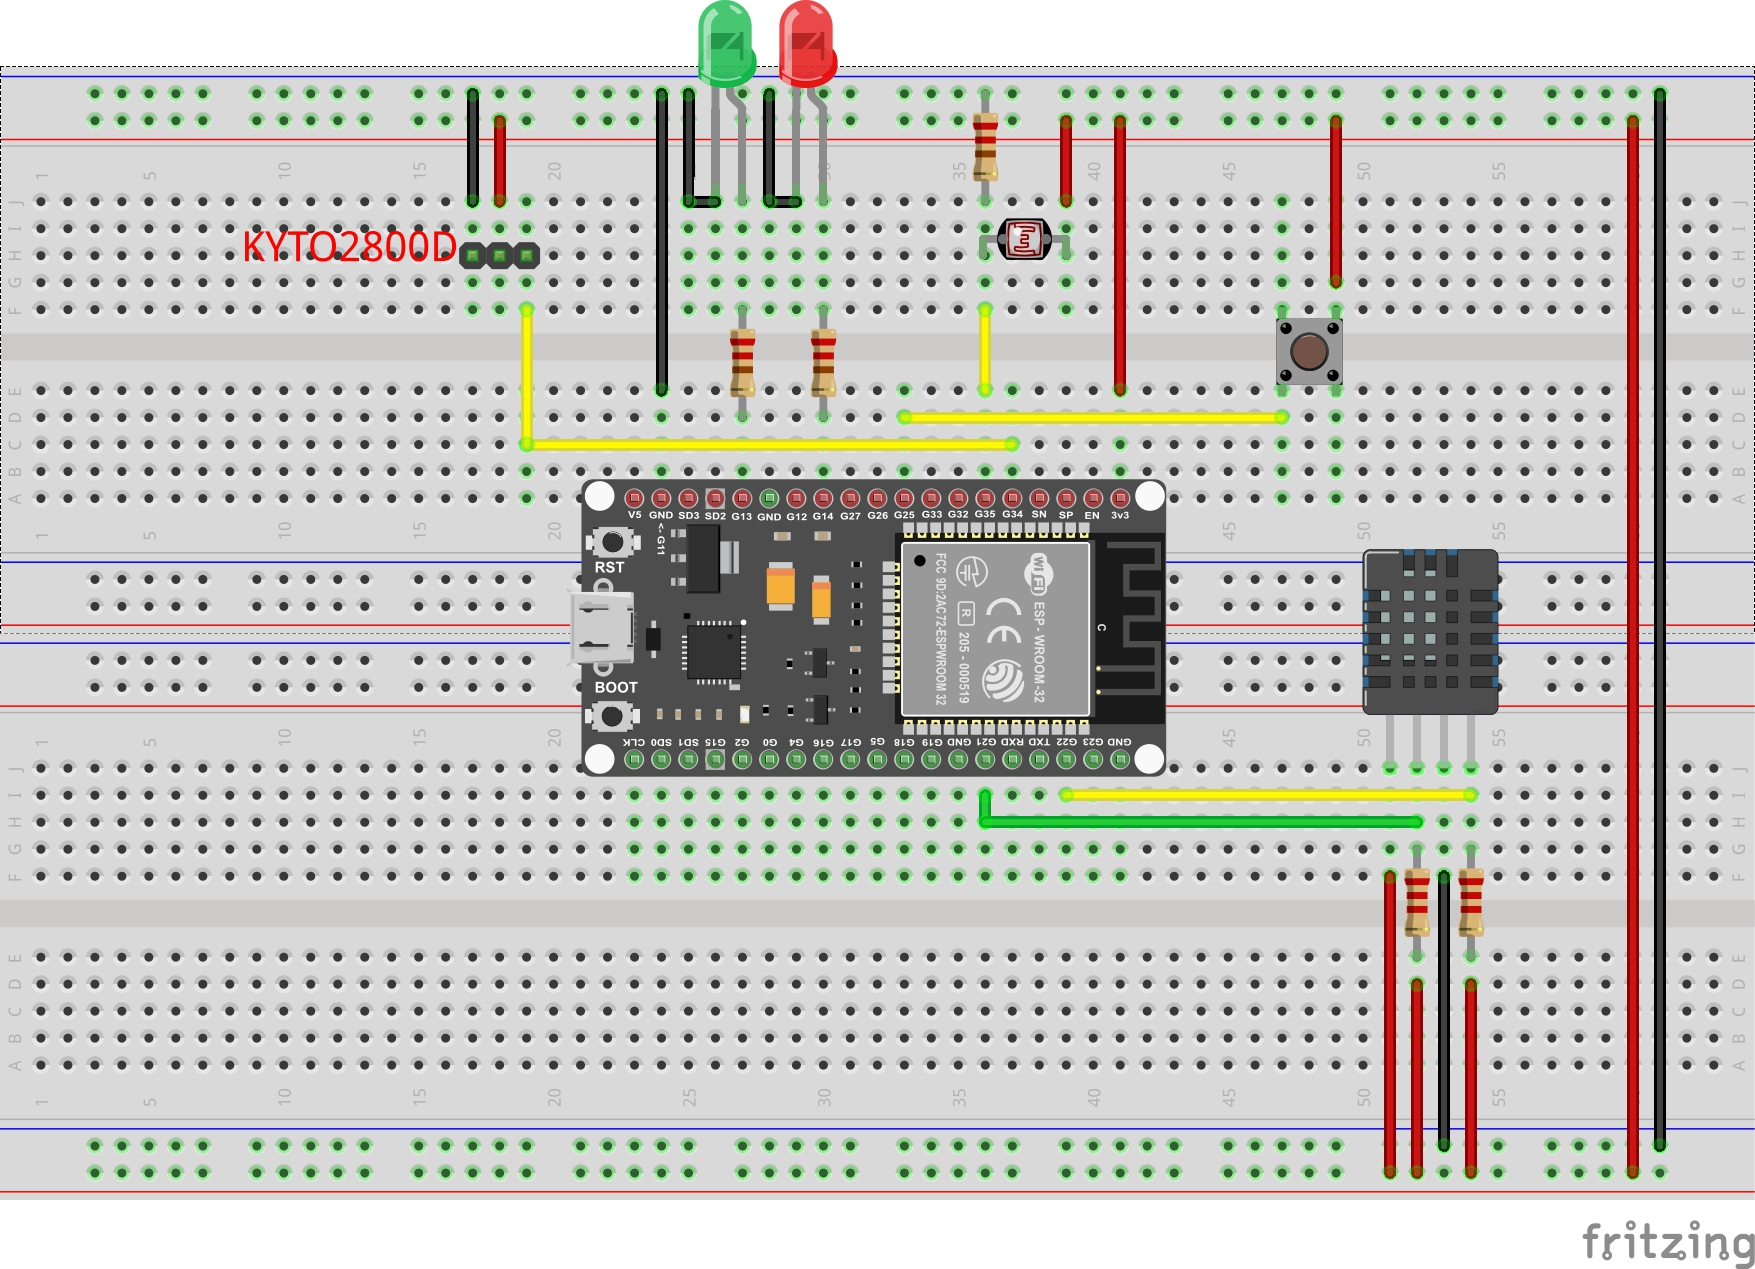
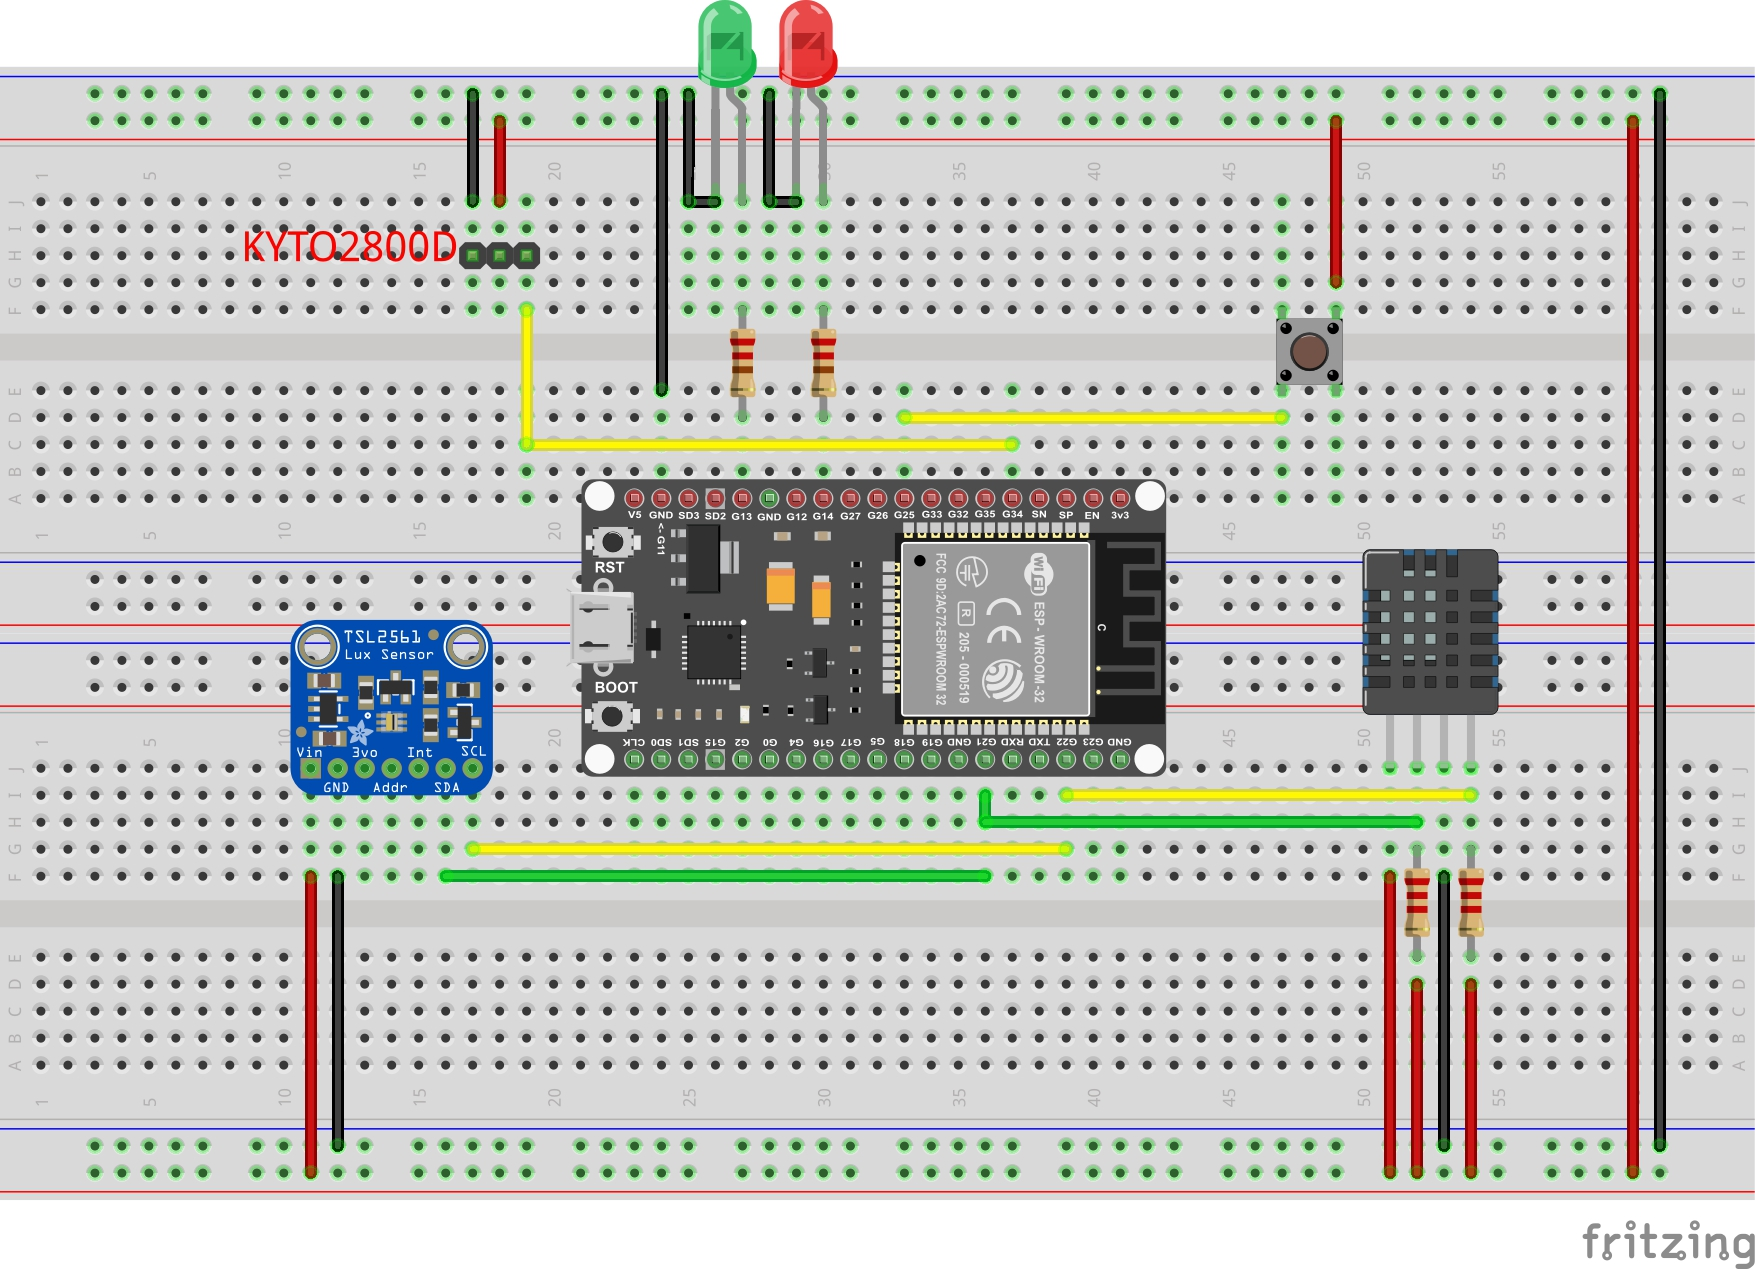
Update fritzing and Readme

Changed region(s): [[0.1538, 0.461, 0.6154, 0.922], [0.5538, 0.0615, 0.6462, 0.3073], [0.6154, 0.3381, 0.6462, 0.3688]]

diff --git a/README.md b/README.md
@@ -2,13 +2,13 @@
 
 ## API
 
-| URI        | Data                                                                                                     |
-| ---------- | -------------------------------------------------------------------------------------------------------- |
-| /temp      | Temperature mesured by the AM2320 in °C                                                                  |
-| /hum       | Relative humidity mesured by the AM2320 in %                                                             |
-| /photo     | Light intensity mesured by the LDR in lux (not very accurate)                                            |
-| /heartrate | Heart rate mesured by the KYTO2800D in bpm                                                               |
-| /metrics   | All data in [Prometheus exposition format](https://prometheus.io/docs/instrumenting/exposition_formats/) |
+| URI          | Data                                                                                                     |
+| ------------ | -------------------------------------------------------------------------------------------------------- |
+| /temp        | Temperature mesured by the AM2320 in °C                                                                  |
+| /hum         | Relative humidity mesured by the AM2320 in %                                                             |
+| /illuminance | Light intensity mesured by the TSL2561 in lux                                                            |
+| /heartrate   | Heart rate mesured by the KYTO2800D in bpm                                                               |
+| /metrics     | All data in [Prometheus exposition format](https://prometheus.io/docs/instrumenting/exposition_formats/) |
 
 ## Config
 
@@ -33,16 +33,10 @@ You can import the Grafana dashboard from the `grafana-dashboard.json` file.
 - [KYTO2800D](https://aliexpress.com/item/1005005244410482.html)
 - 5.3kHz non-coded heart rate transmitter (like the [KYTO2800C](https://www.aliexpress.com/item/32830159930.html))
 - Pushbutton (like the [DTS-61N-V](https://www.mouser.de/ProductDetail/Diptronics/DTS-61N-V?qs=gTYE2QTfZfTZTPABWXJbEQ%3D%3D))
-- LDR (GL5528)
+- [TSL2561](https://www.aliexpress.com/item/1005003306448614.html)
 - 2x 220 Ohm resistors (LEDs)
-- 1x 10k Ohm resistor (LDR)
 - 2x 2.2k Ohm resistors (AM2320) (only when the AM2320 doesn't already has them, like on a module)
 
 ## Circuit
 
 ![Breadboard Circuit](.github/breadboard.jpg)
-
-## Credits
-
-- [esp-idf](https://github.com/espressif/esp-idf)
-- [esp-idf-lib](https://github.com/UncleRus/esp-idf-lib)
